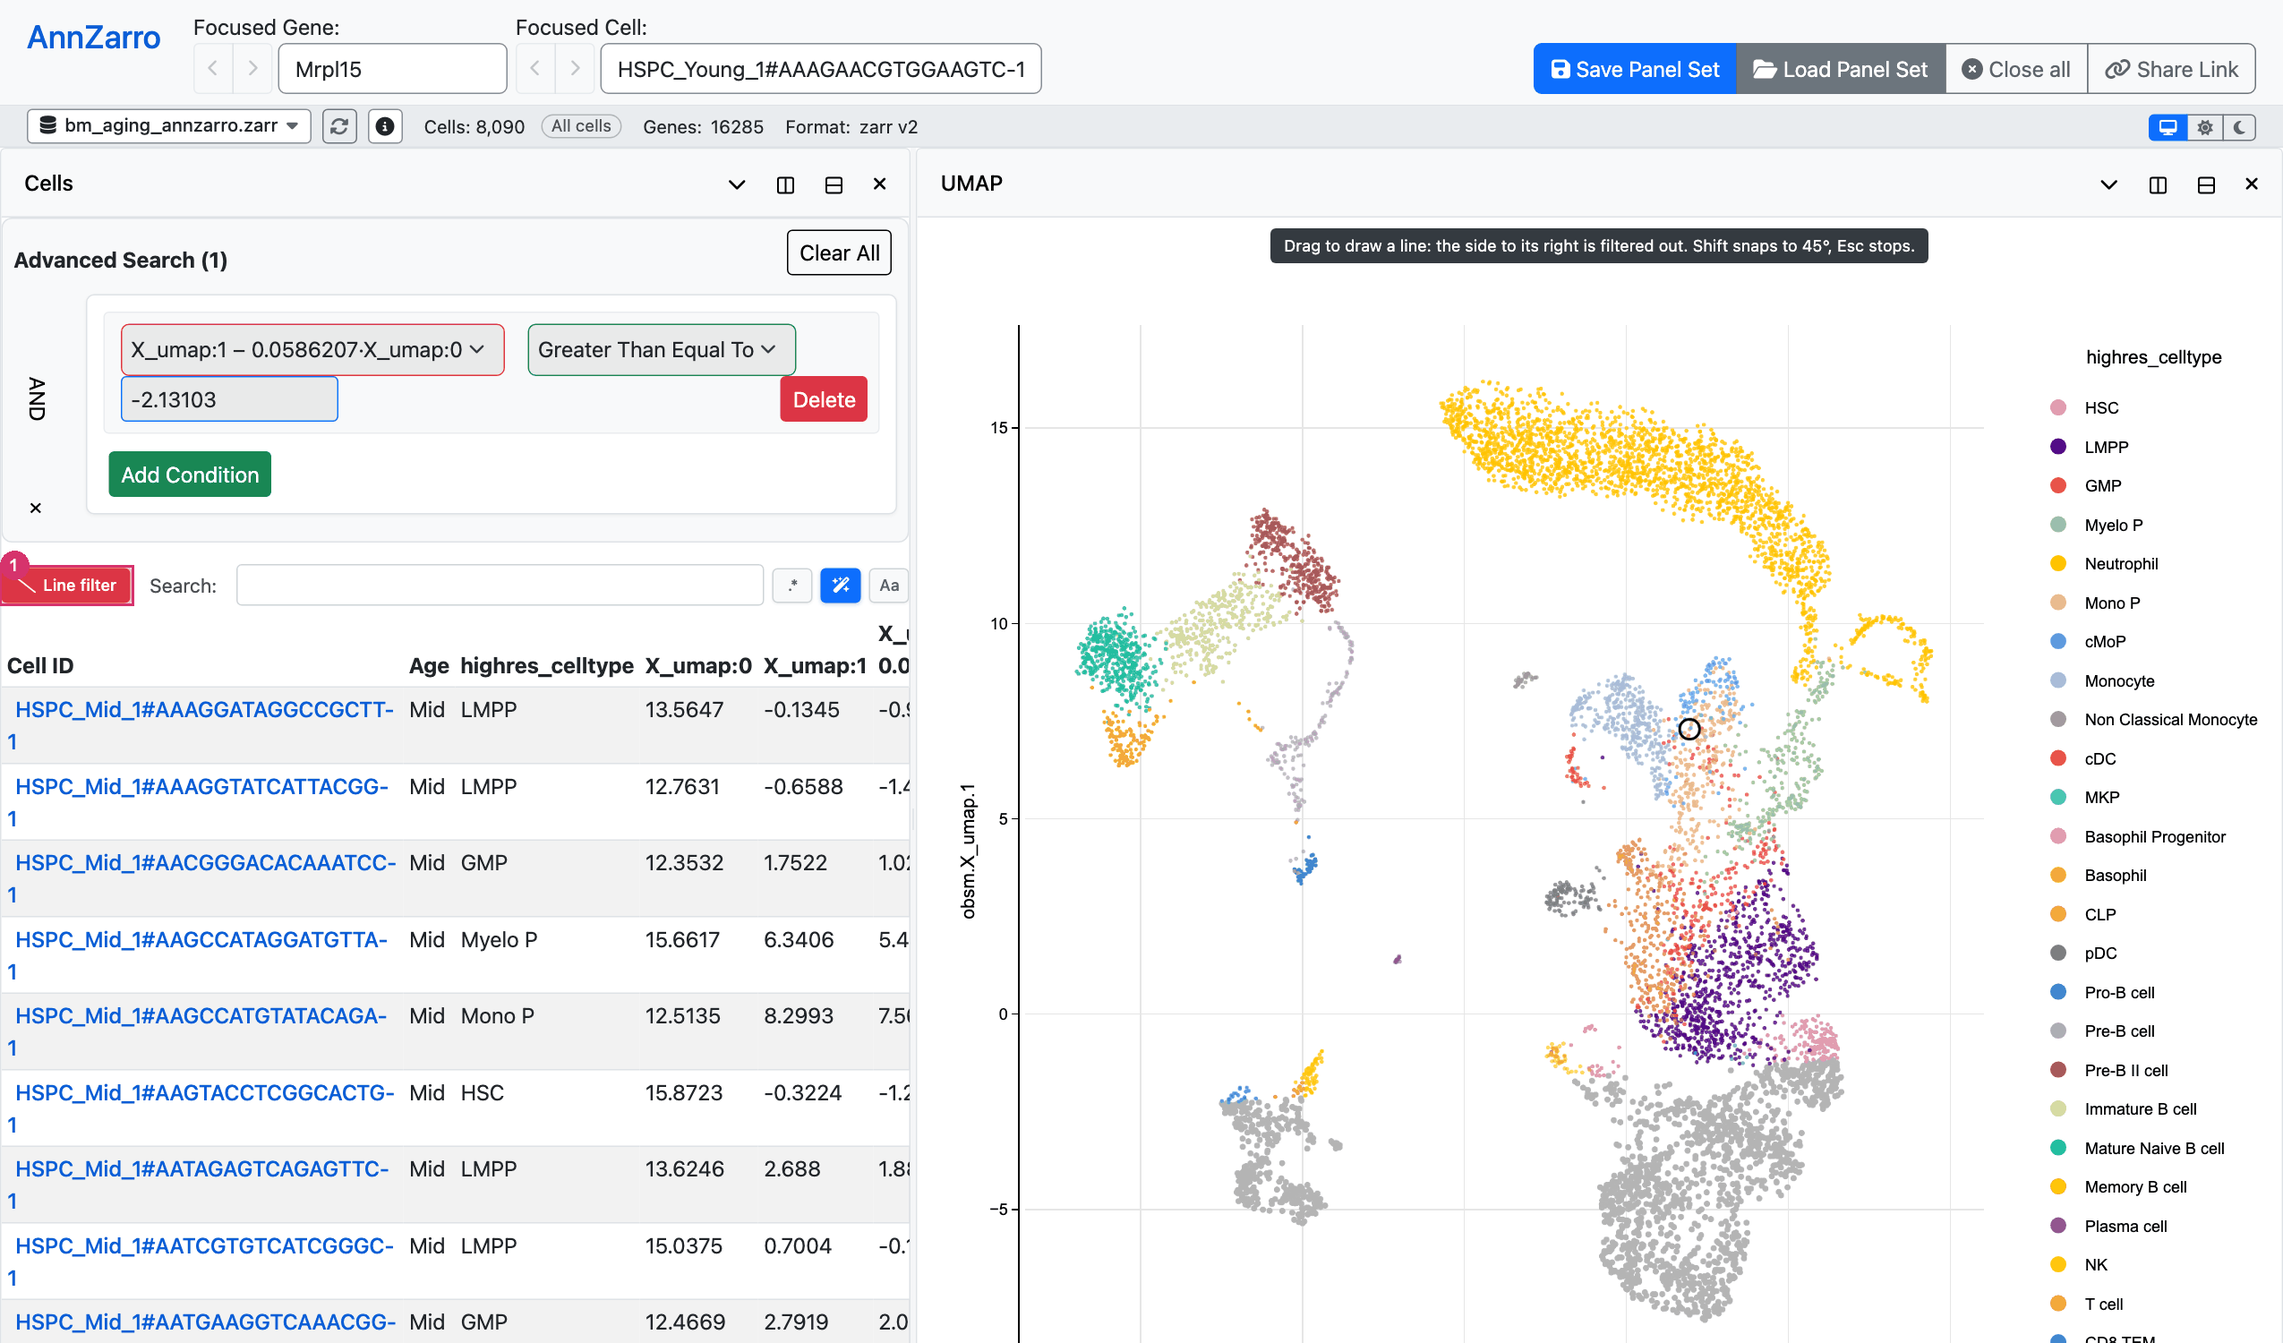
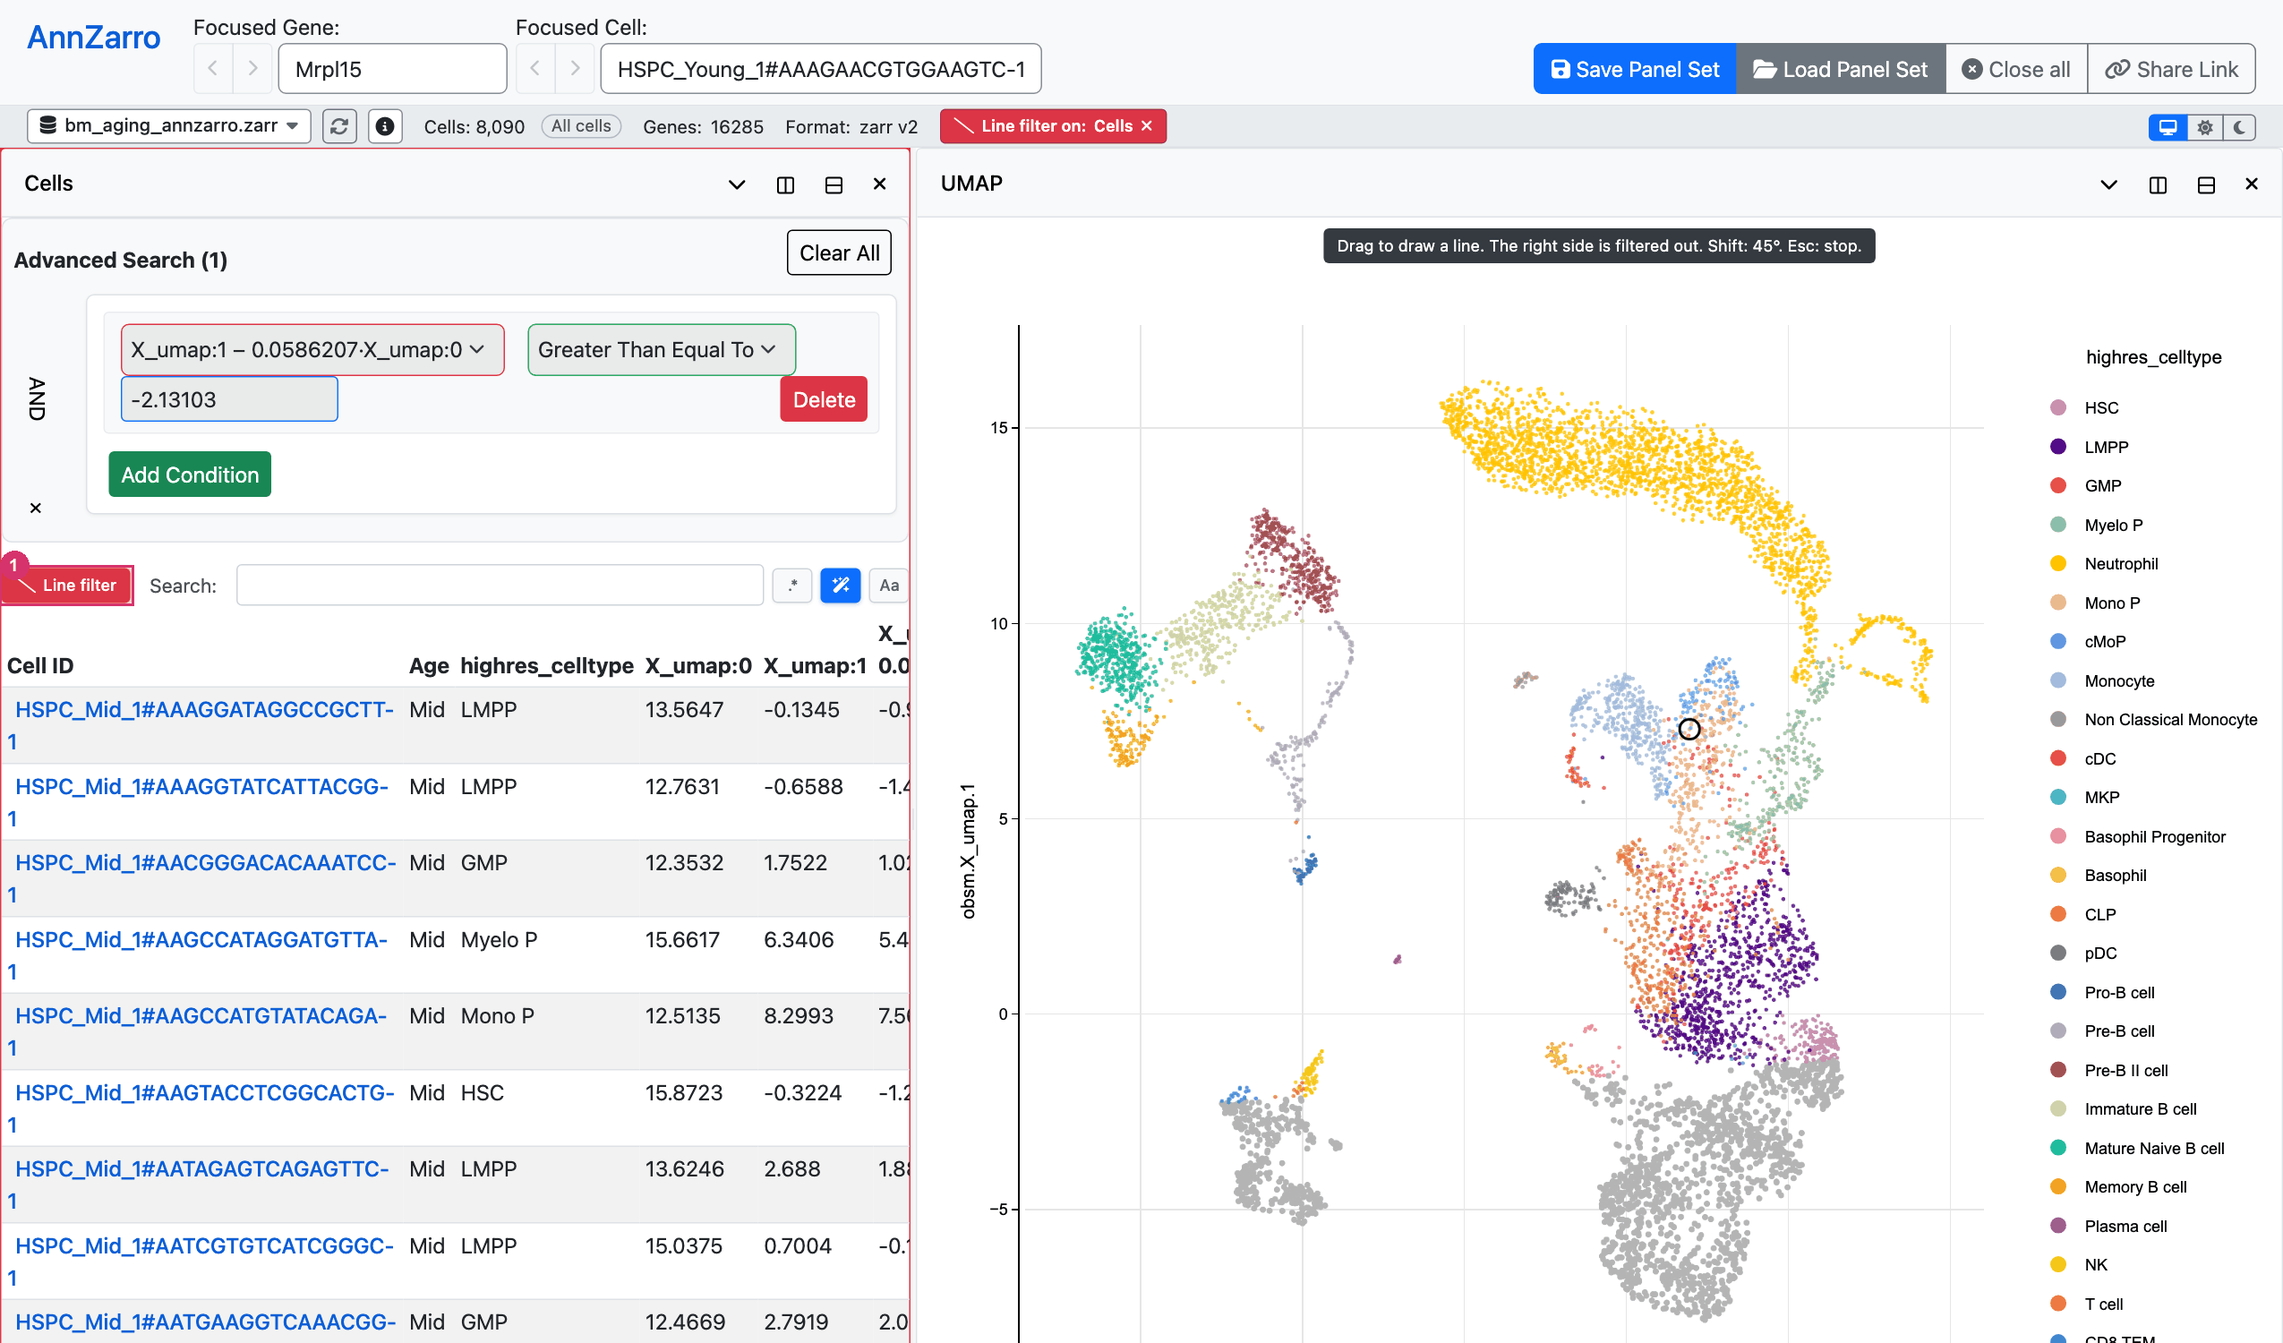
Line filter: red frame and status-bar badge while armed, stop when the table goes away

diff --git a/static/js/panels/table-utilities/line-select-ui.js b/static/js/panels/table-utilities/line-select-ui.js
@@ -21,6 +21,7 @@
  * The arithmetic is utils/line-select.js; this file is the browser side.
  */
 import { PanelManager } from '../../panel-manager.js';
+import { DataManager } from '../../data-manager.js';
 import { notify } from '../../utils/notify.js';
 import {
     axisMap, lineCondition, rightPolygon, clipLine, snap45, fitInside, columnRef, plotRefusal
@@ -33,7 +34,10 @@ const TABLE_SOURCES = {
     genes: ['var', 'varm', 'varp', 'layer']
 };
 const PLOT_TYPE = { cells: 'cell-plot', genes: 'gene-plot' };
-const HINT = 'Drag to draw a line: the side to its right is filtered out. Shift snaps to 45°, Esc stops.';
+const HINT = 'Drag to draw a line. The right side is filtered out. Shift: 45\u00b0. Esc: stop.';
+const BADGE_HELP = 'Drag on a plot of the same cells to draw a line. The side to the right of the line, '
+    + 'looking from where you press to where you release, is filtered out of this table. '
+    + 'Esc or a click here stops.';
 
 /** @type {null|{tableId: string, rows: string, overlays: Map<string, Object>, frame: number,
  *                drag: Object|null, busy: boolean, onKey: Function, onKeyUp: Function}} */
@@ -122,11 +126,43 @@ export function leaveLineSelect() {
     document.removeEventListener('keyup', was.onKeyUp, true);
     for (const o of was.overlays.values()) o.el.remove();
     was.overlays.clear();
+    document.getElementById('line-select-badge')?.remove();
+    for (const el of document.querySelectorAll('.az-line-armed')) el.classList.remove('az-line-armed');
     syncButtons();
+}
+
+/** Why the tool must stop: its table was closed, rebuilt (a panel set, a link, Close all) or the dataset changed. */
+function targetGone(state) {
+    const panel = PanelManager.getPanel(state.tableId);
+    if (!panel || panel !== state.panel) return true;
+    if (!PanelManager.getAllActivePanels().includes(panel)) return true;
+    const box = document.getElementById(`table-container-${state.tableId}`);
+    if (!box || !box.isConnected) return true;
+    return DataManager.getCurrentDataset() !== state.dataset;
+}
+
+/** The red badge in the dataset bar, and the red frame round the target table's tile. */
+function showArmed(state) {
+    const panel = state.panel;
+    const badge = document.createElement('button');
+    badge.type = 'button';
+    badge.id = 'line-select-badge';
+    badge.className = 'btn btn-sm az-line-badge';
+    badge.title = BADGE_HELP;
+    badge.setAttribute('aria-label', `Line filter on: ${panel.getTitle()}. Click to stop.`);
+    badge.innerHTML = '<i class="fas fa-slash" aria-hidden="true"></i> Line filter on: <span class="az-line-badge-name"></span> <i class="fas fa-xmark" aria-hidden="true"></i>';
+    badge.querySelector('.az-line-badge-name').textContent = panel.getTitle();
+    badge.addEventListener('click', () => leaveLineSelect());
+    const host = document.querySelector('#dataset-stats .dataset-bar');
+    const anchor = document.getElementById('theme-toggle');
+    if (host) host.insertBefore(badge, anchor && anchor.parentNode === host ? anchor : null);
+    const tile = document.querySelector(`.tile[data-tile-id="${CSS.escape(state.tableId)}"]`);
+    if (tile) tile.classList.add('az-line-armed');
 }
 
 function arm(tableId, rows) {
     const state = {
+        panel: PanelManager.getPanel(tableId), dataset: DataManager.getCurrentDataset(),
         tableId, rows, overlays: new Map(), frame: 0, drag: null, busy: false,
         onKey: null, onKeyUp: null
     };
@@ -146,13 +182,15 @@ function arm(tableId, rows) {
             movePreview();
         }
     };
+    if (!state.panel) return;
     active = state;
+    showArmed(state);
     document.addEventListener('keydown', state.onKey, true);
     document.addEventListener('keyup', state.onKeyUp, true);
     syncButtons();
     const tick = () => {
         if (active !== state) return;
-        if (!PanelManager.getPanel(tableId)) { leaveLineSelect(); return; }
+        if (targetGone(state)) { leaveLineSelect(); return; }
         reconcile();
         state.frame = requestAnimationFrame(tick);
     };

diff --git a/static/css/styles.css b/static/css/styles.css
@@ -4633,3 +4633,35 @@ mark.dsi-mark { background: rgba(255, 200, 0, 0.5); color: inherit; padding: 0 0
     color: #fff;
     box-shadow: 0 0 0 2px rgba(220, 53, 69, 0.3);
 }
+
+/* the table the lines go to (line-select-ui.js): a red frame, and a red badge in the dataset bar */
+.tile.az-line-armed {
+    border-color: #dc3545;
+    box-shadow: 0 0 0 2px #dc3545;
+}
+
+.az-line-badge {
+    display: inline-flex;
+    align-items: center;
+    gap: 0.35rem;
+    max-width: 22rem;
+    padding: 0 0.6rem;
+    height: 26px;
+    font-size: 12px;
+    font-weight: 600;
+    line-height: 1;
+    white-space: nowrap;
+    color: #fff;
+    background-color: #dc3545;
+    border: 1px solid #b02a37;
+}
+
+.az-line-badge:hover {
+    color: #fff;
+    background-color: #b02a37;
+}
+
+.az-line-badge-name {
+    overflow: hidden;
+    text-overflow: ellipsis;
+}

diff --git a/annzarro/tests/browser/test_table_line_select.py b/annzarro/tests/browser/test_table_line_select.py
@@ -619,3 +619,82 @@ def test_a_line_that_leaves_no_cell_greys_every_cell_and_deleting_it_restores_th
             assert not errors, errors
         finally:
             browser.close()
+
+
+def _armed_chrome(page):
+    return page.evaluate(f"""() => {{ const b = document.getElementById('line-select-badge');
+        const t = document.querySelector('.tile[data-tile-id="{TABLE}"]');
+        return {{badge: !!b, text: b ? b.innerText.replace(/\\s+/g, ' ') : '', title: b ? b.title : '',
+                 inBar: !!(b && b.closest('#dataset-stats')),
+                 frame: !!(t && t.classList.contains('az-line-armed')),
+                 frames: document.querySelectorAll('.az-line-armed').length,
+                 overlays: document.querySelectorAll('.az-line-overlay').length,
+                 btn: !!document.querySelector('.az-line-select-btn.active')}}; }}""")
+
+
+def _is_off(page):
+    page.wait_for_function("() => !document.getElementById('line-select-badge') && "
+                           "!document.querySelector('.az-line-armed') && "
+                           "!document.querySelector('.az-line-overlay')", timeout=10_000)
+
+
+def test_armed_shows_a_badge_and_a_frame_and_a_click_on_the_badge_stops(server):
+    root, store = server
+    with playwright.sync_playwright() as pw:
+        browser, page, errors = _open(pw, root, store)
+        try:
+            assert _armed_chrome(page)["badge"] is False
+            _arm(page)
+            a = _armed_chrome(page)
+            assert a["badge"] and a["inBar"] and a["frame"] and a["frames"] == 1 and a["btn"], a
+            assert a["text"].startswith("Line filter on: cells"), a
+            assert "right" in a["title"] and "Esc" in a["title"] and "draw a line" in a["title"], a
+            page.click("#line-select-badge")
+            _is_off(page)
+            assert not page.evaluate("!!document.querySelector('.az-line-select-btn.active')")
+            # the hint on a plot is short
+            _arm(page)
+            hint = page.evaluate(f"document.querySelector('.az-line-overlay[data-plot=\"{PLOT_A}\"] .az-line-msg').textContent")
+            assert len(hint) < 80, hint
+            page.keyboard.press("Escape")
+            _is_off(page)
+            assert not errors, errors
+        finally:
+            browser.close()
+
+
+def test_the_tool_stops_when_its_table_goes_away(server):
+    root, store = server
+    with playwright.sync_playwright() as pw:
+        # the table is closed
+        browser, page, errors = _open(pw, root, store)
+        try:
+            _arm(page)
+            _drag(page, (0.1, 0.8), (0.9, 0.3), release=False)         # even in the middle of a line
+            page.evaluate(f"PanelManager.closePanel('{TABLE}')")
+            _is_off(page)
+            page.mouse.up()
+            page.wait_for_timeout(500)
+            assert not errors, errors
+        finally:
+            browser.close()
+        # Close all (through its own confirmation)
+        browser, page, errors = _open(pw, root, store)
+        try:
+            _arm(page)
+            page.evaluate("document.getElementById('btn-close-all').click()")
+            page.locator("#notification-container button", has_text="Close all").first.click()
+            _is_off(page)
+            assert not errors, errors
+        finally:
+            browser.close()
+        # a panel set or a link rebuilds every panel
+        browser, page, errors = _open(pw, root, store)
+        try:
+            _arm(page)
+            page.evaluate("""async () => { const layout = PanelManager.saveLayout();
+                await PanelManager.restoreLayout(typeof layout === 'string' ? JSON.parse(layout) : layout); }""")
+            _is_off(page)
+            assert not errors, errors
+        finally:
+            browser.close()

diff --git a/docs/_tools/shoot_line_select.py b/docs/_tools/shoot_line_select.py
@@ -16,6 +16,7 @@ Data: bm_aging_annzarro.zarr in ANNZARRO_DOCS_DATA (default ~/annzarro-data).
 from __future__ import annotations
 
 import argparse
+import os
 import sys
 from pathlib import Path
 
@@ -132,6 +133,18 @@ def shoot(sh):
     arm(page)
     page.mouse.move(*at(a, 4, 10))
     mark(page, "line-select-armed")
+
+    page.context.close()
+    if os.environ.get("LINE_SELECT_DARK_DIR"):         # a look at the dark theme, not part of the docs
+        page = sh.open(view(), dataset=STORE, viewport={"width": 1700, "height": 1000}, scheme="dark")
+        arm(page)
+        page.mouse.move(*at(area(page), 4, 10))
+        su.OUT = Path(os.environ["LINE_SELECT_DARK_DIR"])
+        su.capture(SH, page, "line-select-armed-dark", None, marks=[(1, f"{T(TBL)} .az-line-select-btn")])
+        page.context.close()
+    page = sh.open(view(), dataset=STORE, viewport={"width": 1700, "height": 1000})
+    a = area(page)
+    arm(page)
 
     # the first line, mid-drag: the line and the shaded side that will be filtered out
     p, q = (at(area(page), *c) for c in CUT_BOTTOM)

diff --git a/CHANGELOG.md b/CHANGELOG.md
@@ -11,7 +11,7 @@ with the release after it. Older releases are listed on
 ### Added
 - Plot Options, Apply to other panels: **Make this the session default** makes a plot's look what **Default** means for the session, per plot kind (cell or gene). Plots on Default (made from the chooser, or put back with the Default preset) take it now and follow it when you change or reset it (**Reset to built-in default**); plots with a look of their own, and plots saved before this, keep theirs. A plot saved on Default opens on Default in whatever session it opens in. The default travels with the session: a reload of the tab, the autosave, share links and saved panel sets carry it, and opening a link or a panel set with its panels open makes it yours (Add panels closed does not); Close all with the cache-clearing tick ends it. The Default preset now resets the whole look that Apply to other panels copies, including Not in table, Focused cell and the export size.
 - Panel sets: a set with a default style says so on its card (**Style**). A set with no panels can be saved when a session default is set, and is only a style (**Style only**, one **Apply style** button, no dataset): a way to share a house style.
-- Line selection in the table panel: the **Line filter** button before a table's search box lets you draw a line on a plot of the same kind of cell or gene. The side to the right of the line (from the mouse press to the release) is filtered out: the table gets the plot's axis columns, a derived column `y − m·x` and one condition on it, joined to the filter by an outer AND. The line and the shaded side are previewed while you drag, Shift snaps to 45°, Esc stops, and a plot with a text, 3D or large-plot setup says why it cannot take a line. Several lines make an area. New tutorial: Cut away part of a plot with a line.
+- Line selection in the table panel: the **Line filter** button before a table's search box lets you draw a line on a plot of the same kind of cell or gene. The side to the right of the line (from the mouse press to the release) is filtered out: the table gets the plot's axis columns, a derived column `y − m·x` and one condition on it, joined to the filter by an outer AND. The line and the shaded side are previewed while you drag, Shift snaps to 45°, Esc stops, and a plot with a text, 3D or large-plot setup says why it cannot take a line. While the tool is on, the table has a red frame and a badge in the dataset bar (click it, or press Esc, to stop); closing the table, Close all, loading a panel set or switching dataset also stop it. Several lines make an area. New tutorial: Cut away part of a plot with a line.
 
 ### Fixed
 - A plot coloured by a number and linked to a table drew the wrong points when the table's filter matched nothing: the cells that had just left the table vanished instead of turning grey, and only a reload corrected it. Every cell now turns grey, and removing the condition brings the colours back.

diff --git a/docs/tutorials/line-select.md b/docs/tutorials/line-select.md
@@ -21,13 +21,13 @@ cell plots, a gene table gene plots ({doc}`../user-guide/tables-and-filters`).
 ## 1. Arm the tool
 
 Click **Line filter**, the button before the table's search box (marked 1 below; on a narrow
-table only its icon shows, and its tooltip gives the name). It turns red, and the UMAP shows a hint.
+table only its icon shows, and its tooltip gives the name). The tool is on while three things are red: the button, a frame round the table the lines will go to, and a badge **Line filter on: Cells** in the bar under the header. Hover over the badge for what to do. Click it, press **Esc** or click the button again to stop. The UMAP shows a short hint.
 
 ```{figure} ../_static/screens/tutorials/line-select-armed.png
 :class: screenshot
-:alt: A cell table and a UMAP. The Line filter button before the search box is boxed in red and numbered 1; the UMAP shows the hint "Drag to draw a line: the side to its right is filtered out. Shift snaps to 45 degrees, Esc stops."
+:alt: A cell table with a red frame and a UMAP. The Line filter button before the search box is boxed in red and numbered 1; a red badge "Line filter on: Cells" sits in the dataset bar; the UMAP shows the hint "Drag to draw a line. The right side is filtered out. Shift: 45 degrees. Esc: stop."
 
-The Line filter button (1), armed. The hint appears over the plot.
+The Line filter button (1), armed: the table has a red frame, the badge in the dataset bar says which table the lines go to, and the plot shows a hint.
 ```
 
 ## 2. Draw the cut

diff --git a/docs/user-guide/tables-and-filters.md b/docs/user-guide/tables-and-filters.md
@@ -121,6 +121,7 @@ plot of the same kind (a cell table uses cell plots, a gene table gene plots). T
 **right** of the line, looking from where you press the mouse towards where you release it, is
 filtered out of the table. The tutorial {doc}`../tutorials/line-select` shows it on a UMAP.
 
+- While the tool is on, the table has a red frame and a red badge **Line filter on: *table*** shows in the dataset bar; hover over it for the help, click it to stop. Closing the table, Close all, loading a panel set or link and opening another dataset also stop the tool.
 - While you drag, the line and the shaded side that will be filtered out are drawn. **Shift** snaps
   the line to multiples of 45°. **Esc** stops: a line being drawn is dropped, and the tool is left.
   The tool stays armed after a line, so several lines make an area. Click the button again to leave it.
